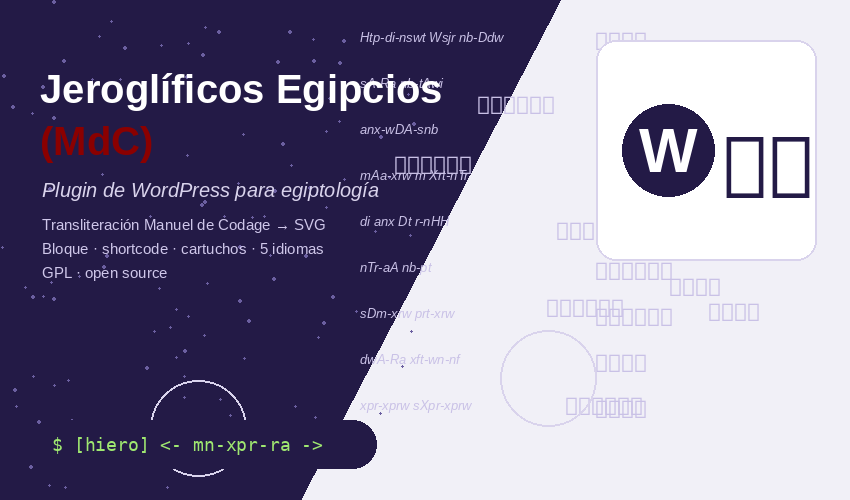
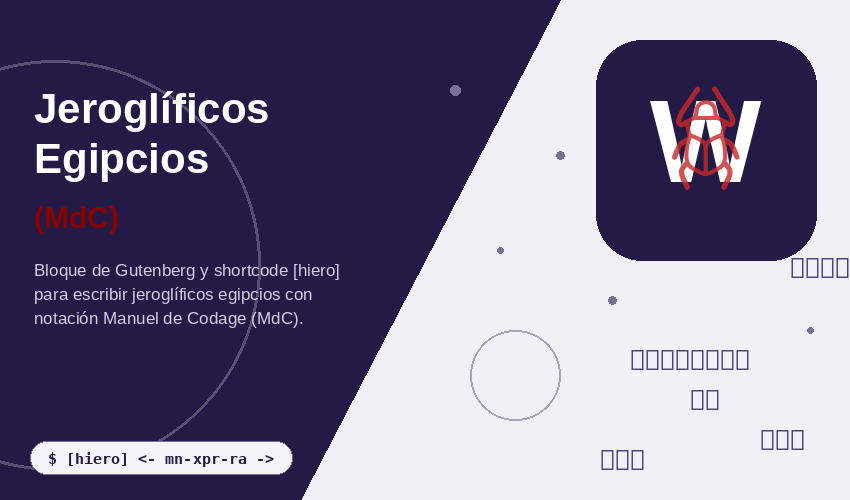
Portada: icono con W de WordPress sobre fondo macizo y escarabajo en rojo encima (combinados)

diff --git a/tools/cover-generator.py b/tools/cover-generator.py
@@ -1,0 +1,155 @@
+#!/usr/bin/env python3
+# -*- coding: utf-8 -*-
+"""Genera screenshots/portada-articulo.png (850x500) — portada del articulo del plugin.
+
+Diseño:
+- Sección oscura diagonal #231A46 a la izquierda con el título, "(MdC)" y la descripción.
+- Fondo claro #F1F0F7 con texto transliterado pálido intercalado con bloques de
+  jeroglíficos (NewGardiner).
+- Icono (derecha): cuadrado redondeado con fondo macizo #231A46, W de WordPress en
+  blanco y el perfil (contorno) del jeroglífico escarabajo en rojo encima.
+- Anillos decorativos, puntos y píldora inferior con ejemplo MdC.
+"""
+from PIL import Image, ImageDraw, ImageFont
+
+W, H = 850, 500
+BG = (241, 240, 247)          # #F1F0F7
+DARK = (35, 26, 70)           # #231A46
+RED = (198, 40, 40)           # #C62828
+RED_DARK = (139, 0, 0)        # #8B0000
+PALE = (120, 112, 150)        # texto transliterado del fondo
+LIB_BOLD = "/usr/share/fonts/truetype/liberation/LiberationSans-Bold.ttf"
+LIB_REG = "/usr/share/fonts/truetype/liberation/LiberationSans-Regular.ttf"
+LIB_ITAL = "/usr/share/fonts/truetype/liberation/LiberationSans-Italic.ttf"
+DEJ_MONO = "/usr/share/fonts/truetype/dejavu/DejaVuSansMono-Bold.ttf"
+NEWG = "/home/ftorres/Escritorio/ftorres.es/plugins/egyptian-hieroglyphs/assets/fonts/NewGardiner.otf"
+
+img = Image.new("RGB", (W, H), BG)
+d = ImageDraw.Draw(img)
+
+
+def font(path, size):
+    return ImageFont.truetype(path, size)
+
+
+def rounded(draw, box, radius, fill):
+    draw.rounded_rectangle(box, radius=radius, fill=fill)
+
+
+# ---------------------------------------------------------------------------
+# 1) Sección oscura diagonal (polígono)
+# ---------------------------------------------------------------------------
+poly = [(0, 0), (560, 0), (300, 500), (0, 500)]
+d.polygon(poly, fill=DARK)
+
+# ---------------------------------------------------------------------------
+# 2) Decoración: anillos y puntos (sobre toda la imagen)
+# ---------------------------------------------------------------------------
+ring = Image.new("RGBA", (W, H), (0, 0, 0, 0))
+rd = ImageDraw.Draw(ring)
+# anillo grande izquierdo, semi-transparente, cortado por el polígono oscuro
+rd.ellipse((-150, 60, 260, 470), outline=(255, 255, 255, 60), width=3)
+# anillo pequeño sobre la sección clara
+rd.ellipse((470, 330, 560, 420), outline=(35, 26, 70, 90), width=2)
+img = Image.alpha_composite(img.convert("RGBA"), ring).convert("RGB")
+d = ImageDraw.Draw(img)
+
+# puntos decorativos (sección clara)
+for (px, py, r) in [(455, 90, 5), (560, 155, 4), (500, 250, 3), (612, 300, 4), (810, 330, 3)]:
+    d.ellipse((px - r, py - r, px + r, py + r), fill=(35, 26, 70, 90) if False else (120, 112, 150))
+
+# ---------------------------------------------------------------------------
+# 3) Fondo claro: texto transliterado intercalado con bloques de jeroglíficos
+# ---------------------------------------------------------------------------
+# Columna derecha (x >= 580) y franja inferior derecha (x >= 340) quedan claras.
+pale_font = font(LIB_ITAL, 16)
+glyph_font = font(NEWG, 30)
+translit_lines = [
+    (610, "nTr anx ra"),
+    (650, "Htp-di-nswt"),
+    (690, "mn-xpr-ra"),
+    (730, "ra-ms-sw"),
+    (770, "sA-ra"),
+]
+glyph_blocks = [
+    (610, 88, "nTr:r"),
+    (655, 128, "ra:Z1"),
+    (700, 168, "Htp-di"),
+    (745, 208, "anx"),
+    (790, 248, "mn-xpr"),
+    (630, 340, "<- ra ->"),
+    (690, 380, "sA"),
+    (760, 420, "anx"),
+    (600, 440, "nTr"),
+]
+for (y, txt) in translit_lines:
+    d.text((610, y), txt, font=pale_font, fill=PALE)
+for (x, y, txt) in glyph_blocks:
+    d.text((x, y), txt, font=glyph_font, fill=(80, 70, 120))
+
+# ---------------------------------------------------------------------------
+# 4) Icono (derecha): fondo macizo + W de WordPress blanca + escarabajo rojo
+# ---------------------------------------------------------------------------
+ix, iy, isz, rad = 596, 40, 220, 46
+d.rounded_rectangle((ix, iy, ix + isz, iy + isz), radius=rad, fill=DARK)
+
+# 4a) W de WordPress — trazo grueso en blanco, centrada
+w_font = font(LIB_BOLD, 118)
+wbox = d.textbbox((0, 0), "W", font=w_font)
+wx = ix + (isz - (wbox[2] - wbox[0])) // 2 - wbox[0]
+wy = iy + (isz - (wbox[3] - wbox[1])) // 2 - wbox[1] - 8  # un poco arriba del centro
+d.text((wx, wy), "W", font=w_font, fill=(255, 255, 255))
+
+# 4b) Perfil del escarabajo (U+131A3) en rojo translúcido, ENCIMA de la W:
+#     se combina con la W (ambos reconocibles) en un solo símbolo.
+scarab_font = font(NEWG, 104)
+sbox = d.textbbox((0, 0), "\U000131A3", font=scarab_font)
+sw = sbox[2] - sbox[0]
+sh = sbox[3] - sbox[1]
+sx = ix + (isz - sw) // 2 - sbox[0]
+sy = iy + (isz - sh) // 2 - sbox[1] - 12
+overlay = Image.new("RGBA", (W, H), (0, 0, 0, 0))
+od = ImageDraw.Draw(overlay)
+od.text((sx, sy), "\U000131A3", font=scarab_font, fill=(198, 40, 40, 205))
+img = Image.alpha_composite(img.convert("RGBA"), overlay).convert("RGB")
+d = ImageDraw.Draw(img)
+
+# ---------------------------------------------------------------------------
+# 5) Título y descripción dentro de la sección oscura
+# ---------------------------------------------------------------------------
+t_font = font(LIB_BOLD, 42)
+d.text((34, 84), "Jeroglíficos", font=t_font, fill=(255, 255, 255))
+d.text((34, 134), "Egipcios", font=t_font, fill=(255, 255, 255))
+mdc_font = font(LIB_BOLD, 30)
+d.text((34, 200), "(MdC)", font=mdc_font, fill=RED_DARK)
+
+desc_lines = [
+    "Bloque de Gutenberg y shortcode [hiero]",
+    "para escribir jeroglíficos egipcios con",
+    "notación Manuel de Codage (MdC).",
+]
+dsc_font = font(LIB_REG, 17)
+yy = 260
+for line in desc_lines:
+    d.text((34, yy), line, font=dsc_font, fill=(210, 205, 225))
+    yy += 24
+
+# ---------------------------------------------------------------------------
+# 6) Píldora inferior con ejemplo MdC
+# ---------------------------------------------------------------------------
+ex = "$ [hiero] <- mn-xpr-ra ->"
+ex_font = font(DEJ_MONO, 15)
+eb = d.textbbox((0, 0), ex, font=ex_font)
+ew = eb[2] - eb[0]
+eh = eb[3] - eb[1]
+pill_w = ew + 36
+pill_h = eh + 18
+pill_x = 30
+pill_y = H - pill_h - 26
+d.rounded_rectangle((pill_x, pill_y, pill_x + pill_w, pill_y + pill_h),
+                    radius=pill_h // 2, fill=(245, 244, 250),
+                    outline=(120, 112, 150), width=1)
+d.text((pill_x + 18, pill_y + 9), ex, font=ex_font, fill=(35, 26, 70))
+
+img.save("/home/ftorres/Escritorio/ftorres.es/plugins/egyptian-hieroglyphs/screenshots/portada-articulo.png")
+print("portada generada OK")
